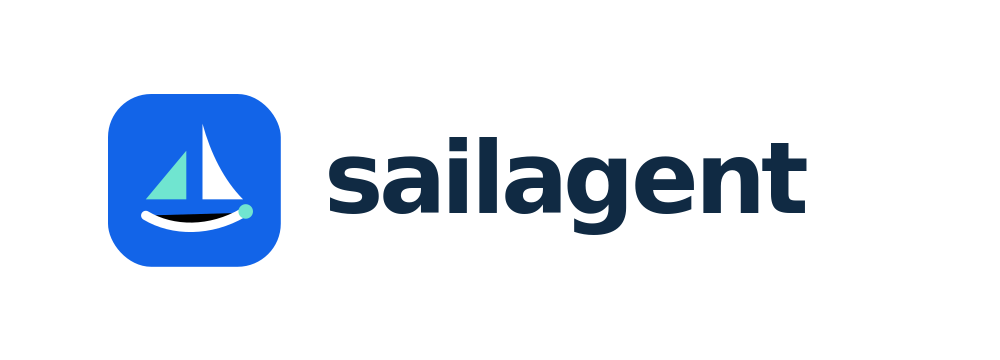
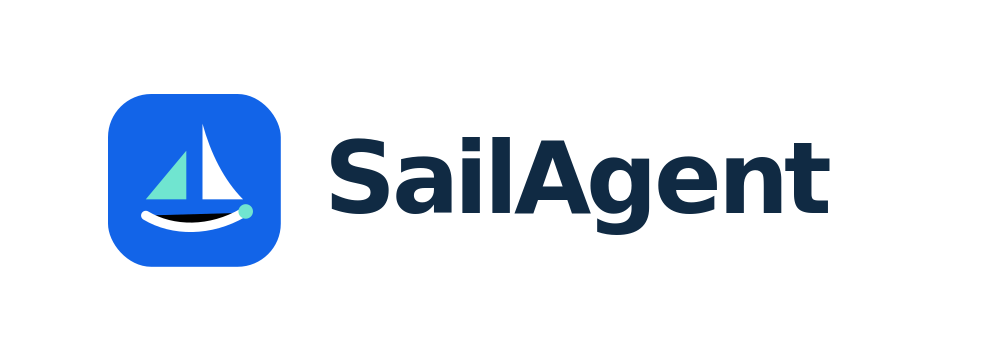
fix: use SailAgent capitalization and simplify homepage copy

Changed region(s): [[0.31, 0.3667, 0.837, 0.6722]]

diff --git a/src/frontend/src/stores/authStore.ts b/src/frontend/src/stores/authStore.ts
@@ -180,7 +180,7 @@ function showDesktopReturnOverlay(deeplink: string): void {
     '<svg width="34" height="34" viewBox="0 0 24 24" fill="none"><path d="M20 6L9 17l-5-5" stroke="#02B589" stroke-width="2.4" stroke-linecap="round" stroke-linejoin="round"/></svg>' +
     '</div>' +
     '<h1 style="font-size:21px;font-weight:600;margin:0 0 8px">登录成功</h1>' +
-    '<p style="font-size:13.5px;color:#808080;line-height:1.75;margin:0 0 28px">已唤起 sailagent 桌面客户端，<br/>您可以关闭此页面了。</p>' +
+    '<p style="font-size:13.5px;color:#808080;line-height:1.75;margin:0 0 28px">已唤起 SailAgent 桌面客户端，<br/>您可以关闭此页面了。</p>' +
     '<button id="jx-reopen" style="width:100%;height:46px;border:none;border-radius:12px;cursor:pointer;background:#126DFF;color:#fff;font-size:15px;font-weight:500">没有自动唤起？重新打开客户端</button>' +
     '<div id="jx-close" style="margin-top:14px;font-size:13px;color:#126DFF;cursor:pointer">关闭此页面</div>' +
     '</div>';

diff --git a/src/frontend/src/components/chat/useChatWelcome.ts b/src/frontend/src/components/chat/useChatWelcome.ts
@@ -40,8 +40,8 @@ export function useChatWelcome(chat: ChatItem | undefined) {
   }, [chat?.agentId, agents]);
 
   // ── Page config default values ──
-  const cfgHeroTitle = usePageConfig('branding.hero_title', '用对话完成询盘、上品与跨岗位协同');
-  const cfgHeroSubtitle = usePageConfig('branding.hero_subtitle', '核验买家、处理报价与产品资料，按岗位分工并人工验收交接。');
+  const cfgHeroTitle = usePageConfig('branding.hero_title', '让外贸更简单');
+  const cfgHeroSubtitle = usePageConfig('branding.hero_subtitle', '核验买家、快速报价、生成商品资料，让团队高效协作。');
   const cfgProductName = usePageConfig('branding.product_name', PRODUCT_NAME);
   const cfgDisclaimer = usePageConfig('branding.disclaimer', '');
   const cfgInputPlaceholder = usePageConfig('texts.input_placeholder', '粘贴询盘、上传产品资料，或描述需要协同完成的任务…');

diff --git a/src/frontend/index.html b/src/frontend/index.html
@@ -4,9 +4,9 @@
     <meta charset="UTF-8" />
     <link rel="icon" type="image/png" href="/brand/sailagent-favicon.png" />
     <meta name="viewport" content="width=device-width, initial-scale=1.0" />
-    <title>sailagent</title>
-    <meta name="application-name" content="sailagent" />
-    <meta name="description" content="sailagent · 外贸出海智能助手：买家核验、询盘报价、商品内容与岗位协同。Powered by HugAgentOS." />
+    <title>SailAgent</title>
+    <meta name="application-name" content="SailAgent" />
+    <meta name="description" content="SailAgent · 外贸出海智能助手：买家核验、询盘报价、商品内容与岗位协同。Powered by HugAgentOS." />
     <link rel="apple-touch-icon" href="/brand/sailagent-icon-192.png" />
     <link rel="manifest" href="/brand/manifest.webmanifest" />
     <script>

diff --git a/src/frontend/src/i18n/en/settings.ts b/src/frontend/src/i18n/en/settings.ts
@@ -233,7 +233,7 @@ export const SETTINGS_DICT: Record<string, string> = {
   '头像上传失败': 'Failed to upload avatar',
   '修改默认密码': 'Change Default Password',
   '首次登录必须修改默认密码': 'Change the default password to continue',
-  '默认账号使用临时密码 admin。为确保实例安全，请设置新密码后继续使用 sailagent。':
+  '默认账号使用临时密码 admin。为确保实例安全，请设置新密码后继续使用 SailAgent。':
     'The default account uses the temporary password "admin". Set a new password before continuing to sailagent.',
   '定期更新登录密码可以保护你的账号与实例配置。': 'Update your sign-in password regularly to protect your account and instance configuration.',
   '当前密码': 'Current Password',

diff --git a/src/frontend/src/i18n/en/onboarding.ts b/src/frontend/src/i18n/en/onboarding.ts
@@ -24,7 +24,7 @@ export const ONBOARDING_DICT: Record<string, string> = {
   '选择需要的智能增强': 'Choose intelligence enhancements',
   '你可以控制是否跨对话记忆、是否让系统从你的用法中自我进化，以及是否执行领域本体核验。': 'Control cross-conversation memory, whether the system evolves from how you work, and domain ontology validation.',
   '一切就绪': 'Everything is ready',
-  '完成初始化后，你将进入 sailagent 工作台。': 'Complete setup to enter the sailagent workspace.',
+  '完成初始化后，你将进入 SailAgent 工作台。': 'Complete setup to enter the SailAgent workspace.',
   '主对话模型': 'Primary chat model',
   '索引模型': 'Index model',
   '重排模型': 'Reranker model',

diff --git a/src/frontend/src/components/personal-agent/tasks/approvalText.ts b/src/frontend/src/components/personal-agent/tasks/approvalText.ts
@@ -9,7 +9,7 @@ export function describeApproval(value: Record<string, unknown>): { op: string; 
   if (value.kind === 'hugagent.session') {
     const args = (value.args || {}) as Record<string, unknown>;
     const subject = [args.title, args.message].filter(Boolean).map(String).join(' · ');
-    return { op: t(SESSION_OPERATIONS[String(value.operation)] || 'sailagent 会话操作'), detail: [where, subject].filter(Boolean).join(' · ') };
+    return { op: t(SESSION_OPERATIONS[String(value.operation)] || 'SailAgent 会话操作'), detail: [where, subject].filter(Boolean).join(' · ') };
   }
   if (value.kind === 'email.send') {
     const files = Array.isArray(value.attachments) ? value.attachments.length : 0;

diff --git a/src/frontend/src/components/onboarding/FirstRunSetup.tsx b/src/frontend/src/components/onboarding/FirstRunSetup.tsx
@@ -990,7 +990,7 @@ export function FirstRunSetup({ user, onComplete }: FirstRunSetupProps) {
     ['让智能体访问实时信息', '配置搜索服务后，天气、新闻和公开资料查询会更加完整。'],
     ['决定如何读取复杂文档', '外部解析服务适合 PDF、扫描件和包含公式的文档。'],
     ['选择需要的智能增强', '你可以控制是否跨对话记忆、是否让系统从你的用法中自我进化，以及是否执行领域本体核验。'],
-    ['一切就绪', '完成初始化后，你将进入 sailagent 工作台。'],
+    ['一切就绪', '完成初始化后，你将进入 SailAgent 工作台。'],
   ];
 
   if (loading) {

diff --git a/src/frontend/src/utils/pageConfigDefaults.ts b/src/frontend/src/utils/pageConfigDefaults.ts
@@ -80,8 +80,8 @@ export const DEFAULT_PAGE_CONFIG: PageConfig = {
     wordmark_url: BRAND_WORDMARK_URL,
     favicon_url: BRAND_FAVICON_URL,
     page_title: PRODUCT_NAME,
-    hero_title: '用对话完成询盘、上品与跨岗位协同',
-    hero_subtitle: '核验买家、处理报价与产品资料，按岗位分工并人工验收交接。',
+    hero_title: '让外贸更简单',
+    hero_subtitle: '核验买家、快速报价、生成商品资料，让团队高效协作。',
     disclaimer: '真实公开资料保留来源；报价目录为模拟数据。所有回复与上品结果均是待审核草稿，不自动发送或发布。',
   },
   homepage: {

diff --git a/src/frontend/src/i18n/en/personalAgent.ts b/src/frontend/src/i18n/en/personalAgent.ts
@@ -110,7 +110,7 @@ export const PERSONAL_AGENT_DICT: Record<string, string> = {
   '未开启任何许可': 'No permissions enabled',
   '管理会话': 'Manage sessions',
   '会话管理': 'Session management',
-  'sailagent 会话操作': 'sailagent session operation',
+  'SailAgent 会话操作': 'SailAgent session operation',
   '操作尚未确认。请检查会话后再重试。': 'The operation is unconfirmed. Check the session before retrying.',
   '会话名称': 'Session title',
   '删除会话': 'Delete session',

diff --git a/src/frontend/src/components/settings/PasswordManagementPanel.tsx b/src/frontend/src/components/settings/PasswordManagementPanel.tsx
@@ -49,7 +49,7 @@ export function PasswordManagementPanel({
           type="warning"
           showIcon
           message={t('首次登录必须修改默认密码')}
-          description={t('默认账号使用临时密码 admin。为确保实例安全，请设置新密码后继续使用 sailagent。')}
+          description={t('默认账号使用临时密码 admin。为确保实例安全，请设置新密码后继续使用 SailAgent。')}
           style={{ marginBottom: 16 }}
         />
       ) : (

diff --git a/src/frontend/src/brand.ts b/src/frontend/src/brand.ts
@@ -1,5 +1,5 @@
 /** Public derivative identity; upstream attribution remains Powered by HugAgentOS. */
-export const PRODUCT_NAME = 'sailagent';
+export const PRODUCT_NAME = 'SailAgent';
 export const BRAND_MARK_URL = '/brand/sailagent-mark.svg';
 export const BRAND_WORDMARK_URL = '/brand/sailagent-wordmark.svg';
 export const BRAND_FAVICON_URL = '/brand/sailagent-favicon.png';

diff --git a/extensions/foreign_trade/brand_identity.py b/extensions/foreign_trade/brand_identity.py
@@ -11,8 +11,8 @@ import sqlite3
 from uuid import uuid4
 
 IDENTITY_REPLACEMENTS={
-    'system/00_role': [('你是 HugAgentOS 外贸助手，','你是 sailagent 外贸出海助手，')],
-    'system/40_format': [('以"HugAgentOS"身份输出','以"sailagent"身份输出')],
+    'system/00_role': [('你是 sailagent 外贸出海助手，','你是 SailAgent 外贸出海助手，'), ('你是 HugAgentOS 外贸助手，','你是 SailAgent 外贸出海助手，')],
+    'system/40_format': [('以"sailagent"身份输出','以"SailAgent"身份输出'), ('以"HugAgentOS"身份输出','以"SailAgent"身份输出')],
 }
 
 
@@ -36,7 +36,7 @@ def apply_identity_prompt(db):
     existing=prompts.get_version('system',version,db=db)
     if existing and existing.get('parts')!=parts:version+='-'+uuid4().hex[:8];existing=None
     if not existing:
-        prompts.upsert_version('system',version,name='sailagent · 外贸出海助手',description='Only the assistant product identity changed; HugAgentOS attribution and business rules retained.',parts=parts,db=db,updated_by='sailagent-branding')
+        prompts.upsert_version('system',version,name='SailAgent · 外贸出海助手',description='Only the assistant product identity changed; HugAgentOS attribution and business rules retained.',parts=parts,db=db,updated_by='sailagent-branding')
     prompts.activate_version('system',version,db=db)
     return version,True
 
@@ -52,7 +52,7 @@ def apply(home,quiet=False):
     os.environ.update(runtime_env(home,3002))
     from core.db.engine import SessionLocal
     from core.db.models import ContentBlock
-    from core.files.content.branding import enforce_ce_branding
+    from core.files.content.branding import enforce_ce_branding, legacy_hero_updates
     from core.files.content.content_blocks_constants import DEFAULT_PAGE_CONFIG
     from core.llm import prompt_versions as prompts
     before=counts(home/'data.db')
@@ -64,19 +64,20 @@ def apply(home,quiet=False):
         keys=('product_name','page_title','logo_url','wordmark_url','favicon_url')
         nav=payload.get('navigation') or {}
         needs=any(old.get(k)!=default[k] for k in keys) or (payload.get('homepage') or {}).get('logo_url')!=default['logo_url']
-        needs=needs or (nav.get('admin_header') or {}).get('title')!='sailagent — 后台管理' or (nav.get('admin_platform') or {}).get('product_name')!='sailagent'
+        needs=needs or (nav.get('admin_header') or {}).get('title')!='SailAgent — 后台管理' or (nav.get('admin_platform') or {}).get('product_name')!='SailAgent'
         needs=needs or (payload.get('auth') or {}).get('allow_register') is not False
+        needs=needs or bool(legacy_hero_updates(old))
         needs=needs or bool(active and identity_parts(active['parts'])!=active['parts'])
         if not needs:
-            result={'ok':True,'changed':False,'brand':'sailagent','prompt_version':active['id'] if active else None}
+            result={'ok':True,'changed':False,'brand':'SailAgent','prompt_version':active['id'] if active else None}
         else:
             backup=home/'brand-backups'/('before-sailagent-'+datetime.now(timezone.utc).strftime('%Y%m%dT%H%M%S%fZ')+'.json');backup.parent.mkdir(exist_ok=True,mode=0o700)
-            snapshot={'branding':{k:old.get(k) for k in keys},'homepage_logo_url':(payload.get('homepage') or {}).get('logo_url'),'admin_header_title':(nav.get('admin_header') or {}).get('title'),'admin_platform_name':(nav.get('admin_platform') or {}).get('product_name'),'active_prompt_version':active['id'] if active else None,'table_counts':before}
+            snapshot={'branding':{k:old.get(k) for k in (*keys,'hero_title','hero_subtitle')},'homepage_logo_url':(payload.get('homepage') or {}).get('logo_url'),'admin_header_title':(nav.get('admin_header') or {}).get('title'),'admin_platform_name':(nav.get('admin_platform') or {}).get('product_name'),'active_prompt_version':active['id'] if active else None,'table_counts':before}
             descriptor=os.open(backup,os.O_CREAT|os.O_EXCL|os.O_WRONLY,0o600)
             with os.fdopen(descriptor,'w',encoding='utf-8') as stream:json.dump(snapshot,stream,ensure_ascii=False,indent=2)
             branding_changed=enforce_ce_branding(db)
             version,prompt_changed=apply_identity_prompt(db)
-            result={'ok':True,'changed':branding_changed or prompt_changed,'brand':'sailagent','prompt_version':version,'backup':str(backup)}
+            result={'ok':True,'changed':branding_changed or prompt_changed,'brand':'SailAgent','prompt_version':version,'backup':str(backup)}
     after=counts(home/'data.db')
     result['table_count_changes']={name:{'before':value,'after':after.get(name)} for name,value in before.items() if after.get(name)!=value}
     if any(after.get(name,0)<value for name,value in before.items()):raise RuntimeError('Unexpected table row decrease; inspect before continuing.')
